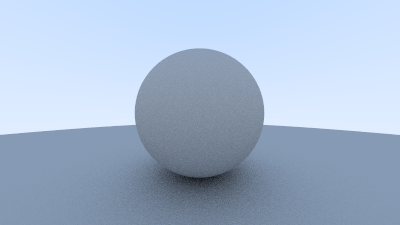
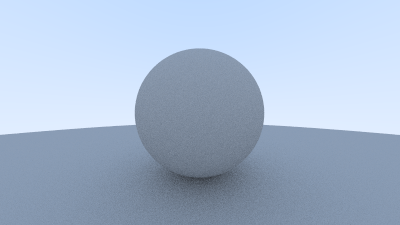
Start adding a material

Changed region(s): [[0.39, 0.7467, 0.6, 0.9022]]

diff --git a/src/geom/material.rs b/src/geom/material.rs
@@ -1,0 +1,31 @@
+use crate::geom::shape::HitRecord;
+use crate::{Colour, Ray, Vec3};
+
+struct Scatter {
+    scattered: Ray,
+    attenuation: Colour,
+}
+
+trait Material {
+    fn scatter(&self, hit_record: &HitRecord) -> Option<Scatter>;
+}
+
+struct Lambertian {
+    albedo: Colour
+}
+
+impl Material for Lambertian {
+    fn scatter(&self, rec: &HitRecord) -> Option<Scatter> {
+        let mut scatter_direction = rec.normal + Vec3::random_in_unit_sphere().unit_vector();
+
+        if scatter_direction.near_zero() {
+            scatter_direction = rec.normal;
+        }
+
+        let scattered = Ray::new(rec.p, scatter_direction);
+        Some(Scatter {
+            scattered,
+            attenuation: self.albedo
+        })
+    }
+}

diff --git a/src/main.rs b/src/main.rs
@@ -14,7 +14,7 @@ fn ray_colour<H: Hittable>(r: &Ray, hittable: &H, depth: u32) -> Colour {
     let hit = hittable.hit(r, 0.001, f64::INFINITY);
 
     if let Some(t) = hit {
-        let target = t.p + t.normal + Vec3::random_in_unit_sphere();
+        let target = t.p + t.normal + Vec3::random_in_unit_sphere().unit_vector();
         return 0.5 * ray_colour(&Ray::new(t.p, target - t.p), hittable, depth-1);
     }
 

diff --git a/src/geom/mod.rs b/src/geom/mod.rs
@@ -1,4 +1,5 @@
 pub mod shape;
+pub mod material;
 
 use std::fmt::{Display, Formatter};
 use std::ops::{Add, AddAssign, Div, DivAssign, Index, Mul, MulAssign, Neg, Range, Sub};
@@ -55,6 +56,12 @@ impl Vec3 {
             return p;
         }
     }
+
+    pub fn near_zero(&self) -> bool {
+        let s = 1e-8;
+        self.e[0].abs() < s && self.e[1].abs() < s && self.e[2].abs() < s
+    }
+
 
 }
 
